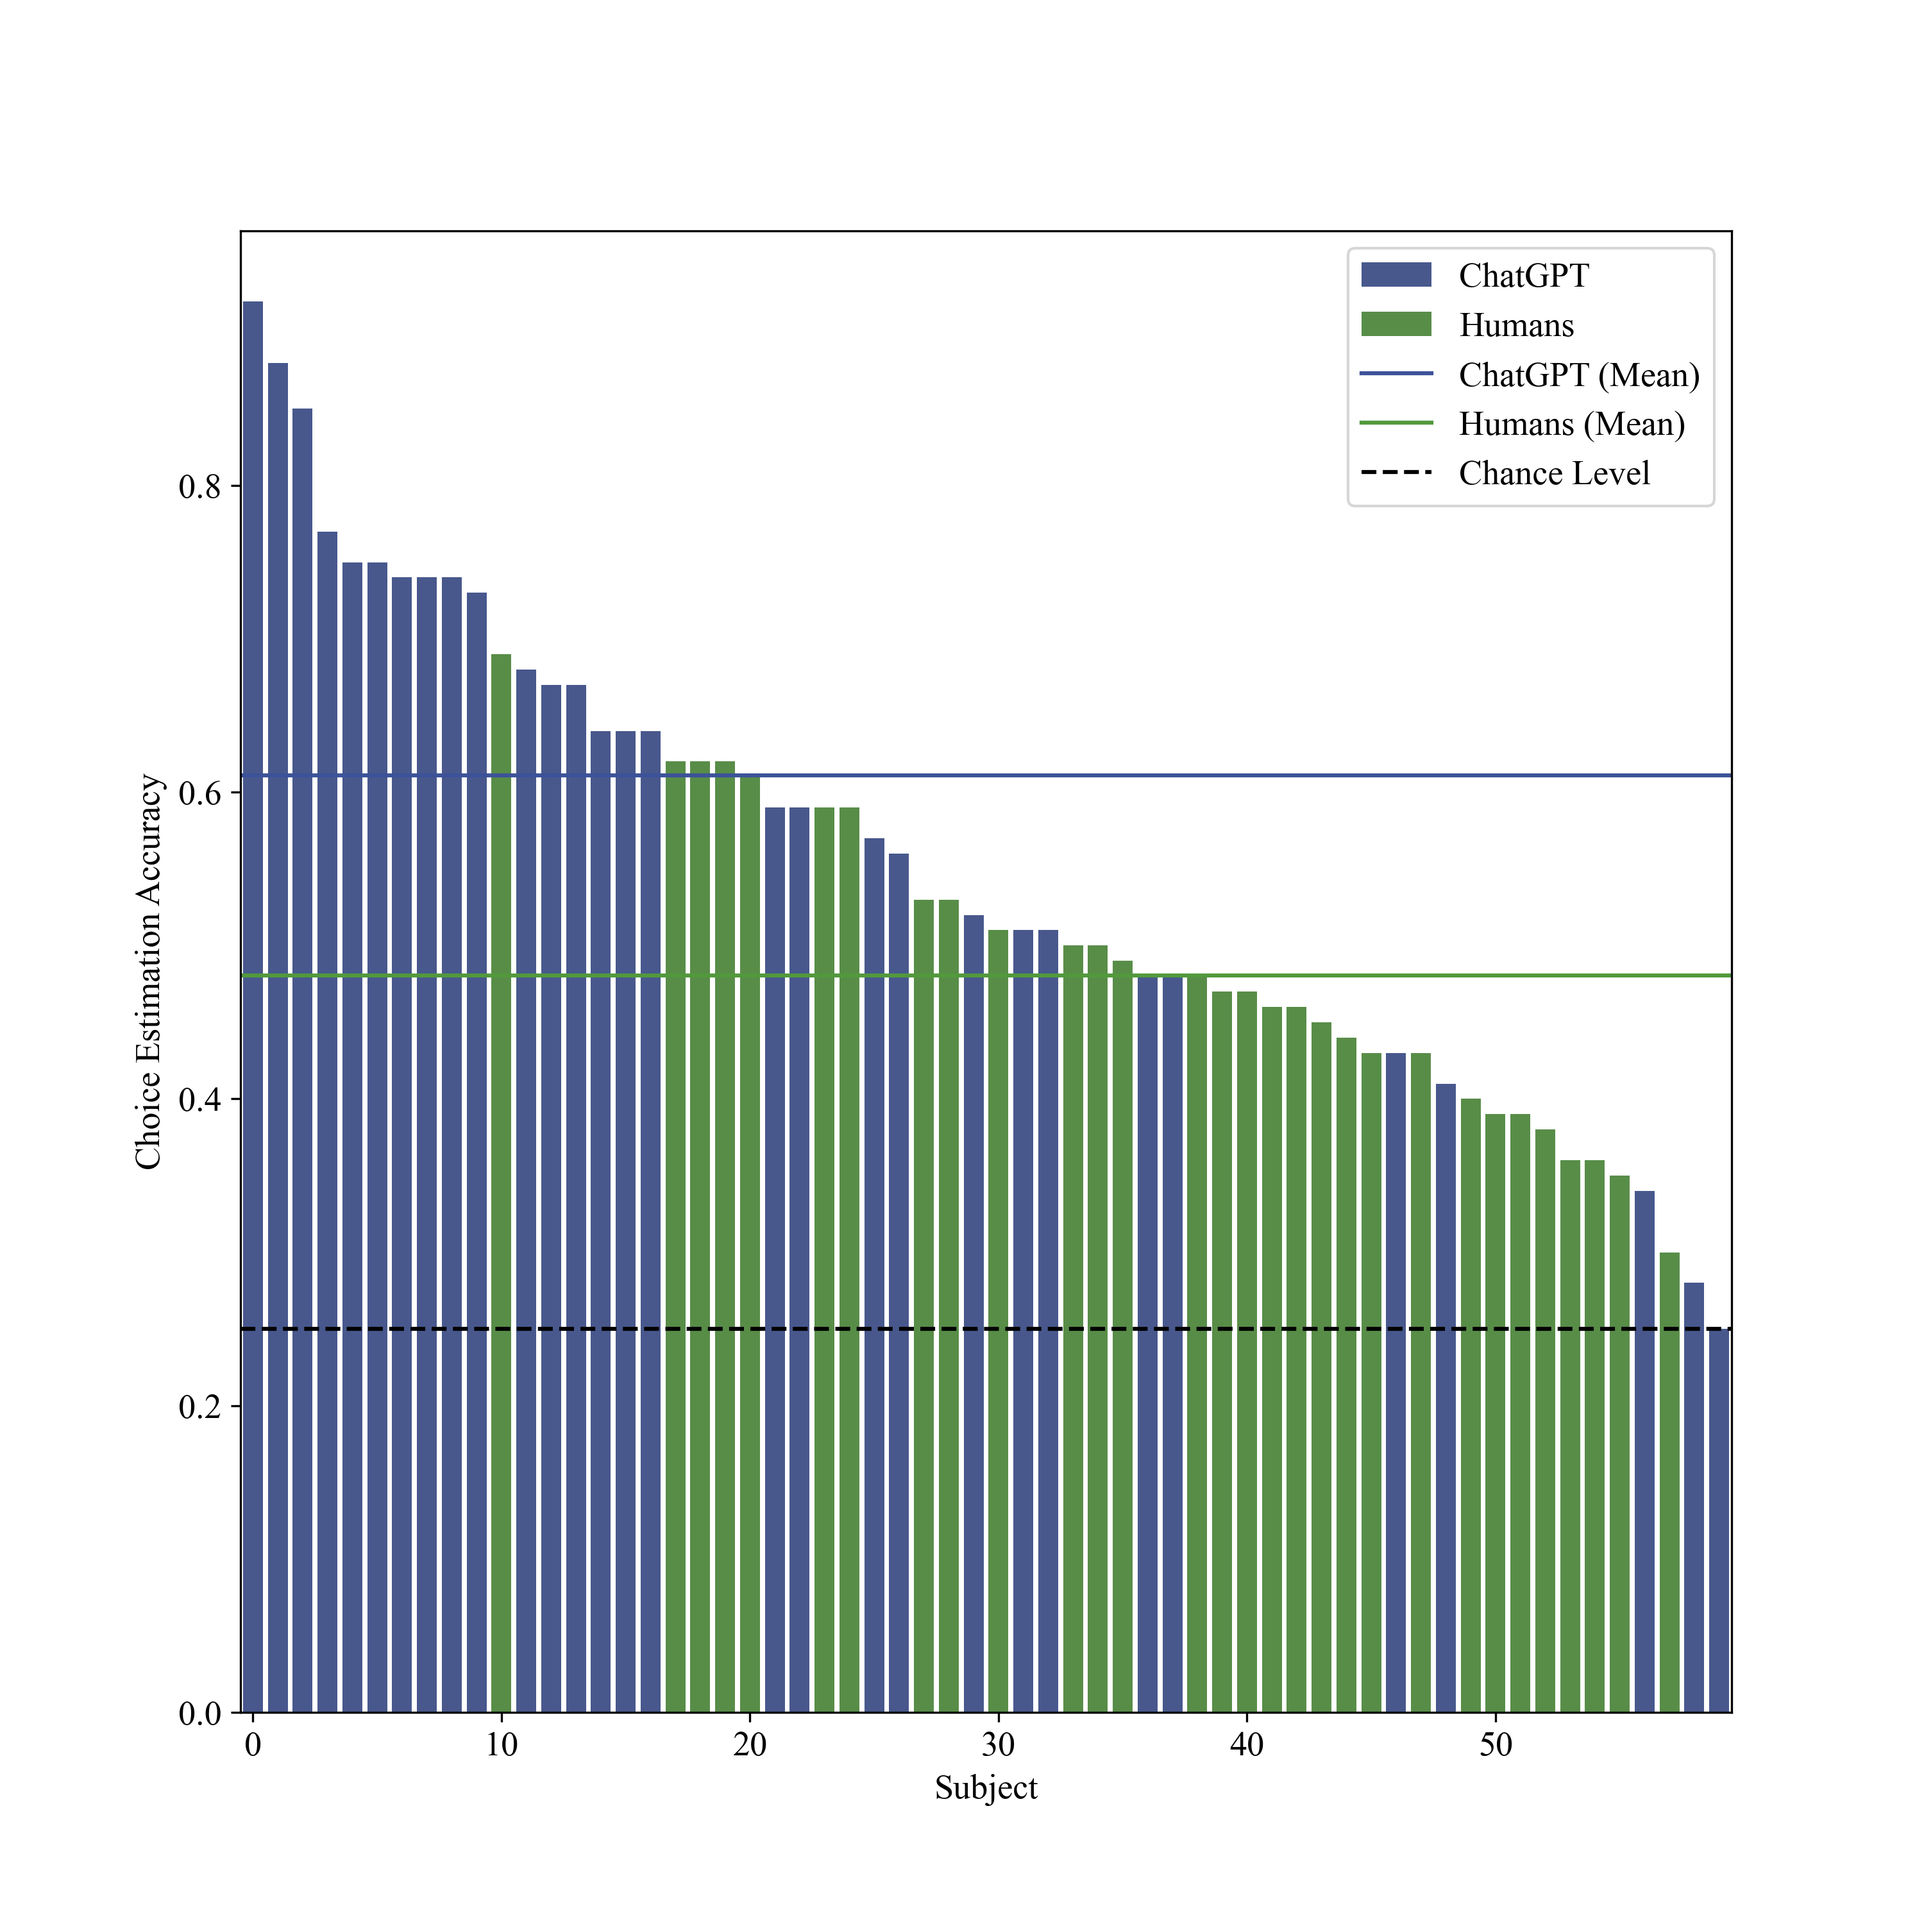
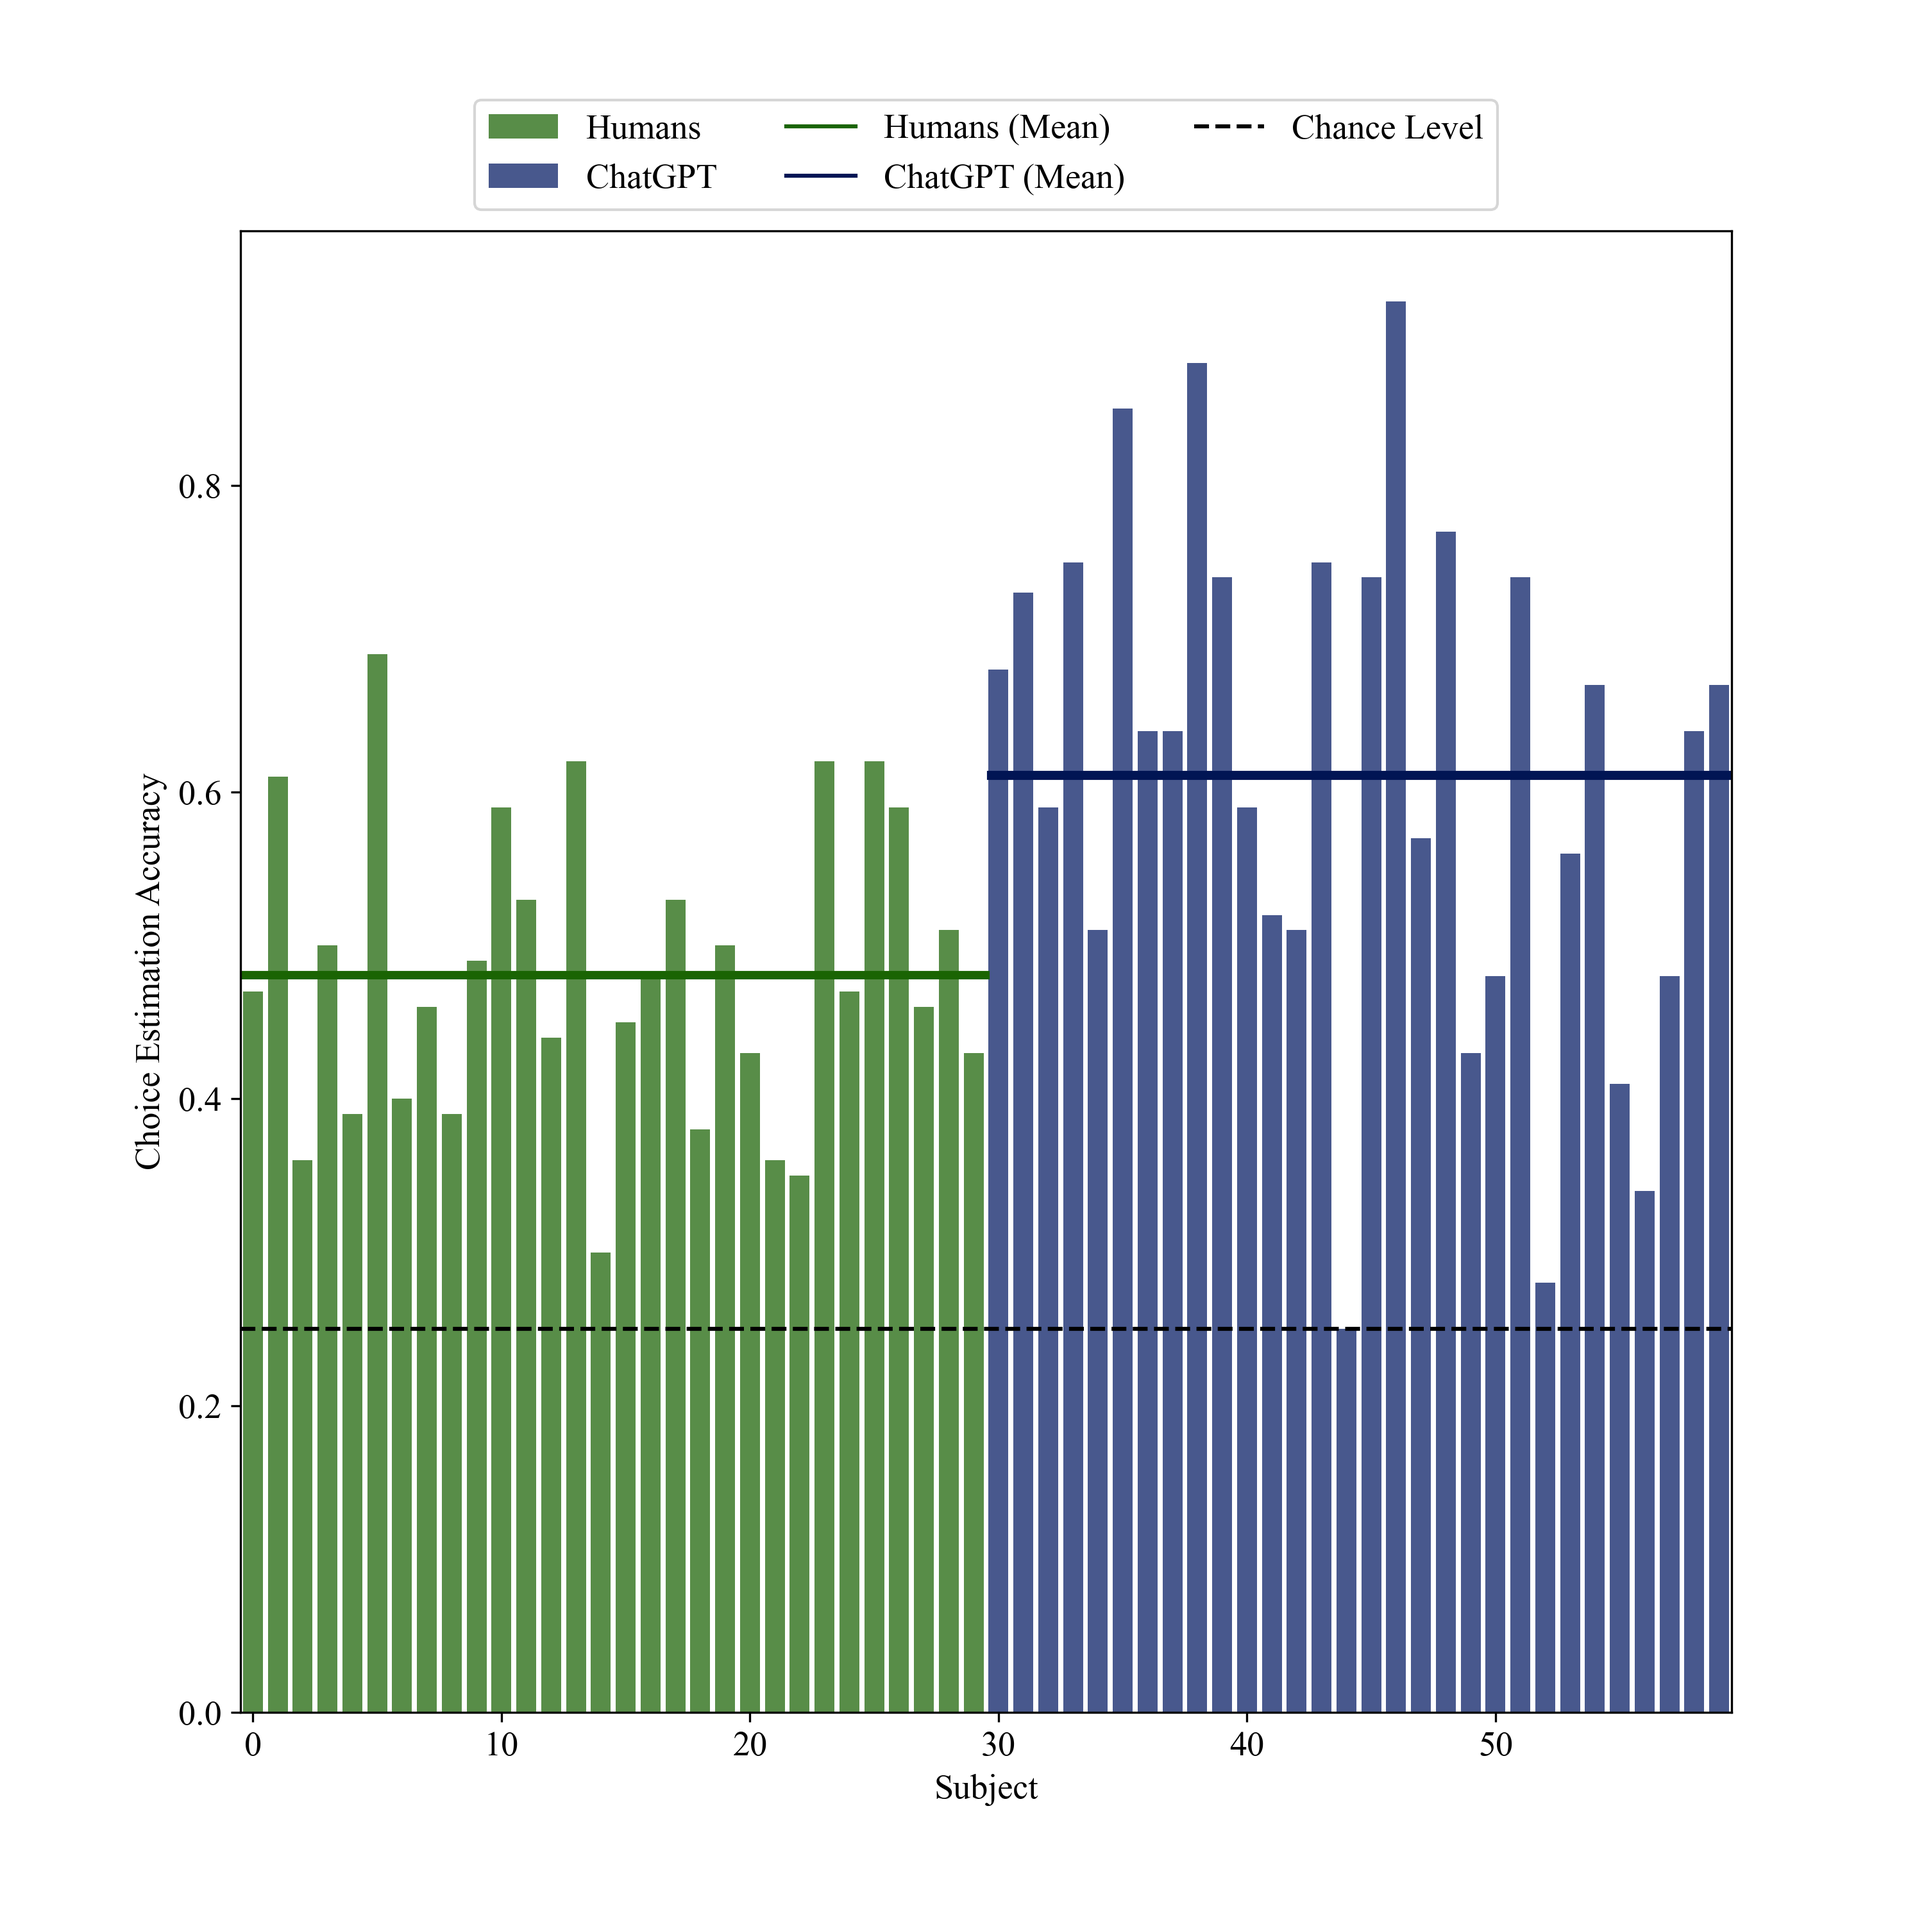
new version of descriptive adaquacy

diff --git a/src/estimation/plot_estimates.py b/src/estimation/plot_estimates.py
@@ -69,9 +69,6 @@ def plot_posteriors(hc_data, gpt_data, colors=["#398A20", "#20398A"],
     if len(parameters) < total_subplots:
         axs[-1, -1].axis('off')
 
-    if save_path is not None:
-        plt.savefig(save_path, dpi=300)
-
 
 def plot_hc_posteriors(main_hc_sample, other_hc_samples, 
                        parameters=[("mu_a_rew", "$\mu A_{rew}$"), ("mu_a_pun", "$\mu A_{pun}$"), 
@@ -153,19 +150,22 @@ def plot_multiple_descriptive_adequacies(hc_data, gpt_data, colors = ["#52993C",
     # Set subplot
     fig, ax = plt.subplots(figsize=(10, 10))
 
-    # sort bar chart by accuracy descending
-    df = df.sort_values(by=['pred_success'], ascending=False).reset_index(drop=True)
-
     # Create bar plot with each subject (row) on the x-axis and the accuracy on the y-axis and colored by group
-    sns.barplot(x=df.index, y=df['pred_success'], hue=df['group'], ax=ax, palette=[colors[1], colors[0]])
+    sns.barplot(x=df.index, y=df['pred_success'], hue=df['group'], ax=ax, palette=[colors[0], colors[1]])
 
     # Calculate mean accuracies
     hc_mean = df[df['group'] == 'Humans']['pred_success'].mean()
     gpt_mean = df[df['group'] == 'ChatGPT']['pred_success'].mean()
 
-    # Add mean accuracy lines for each group
-    ax.axhline(y=hc_mean, linestyle='-', color=colors[0])
-    ax.axhline(y=gpt_mean, linestyle='-', color=colors[1])
+    # Calculate the mid-point between the two groups on the x-axis
+    mid_point = len(hc_data) - 0.5
+
+    # set a darker version of the colors for the mean spans
+    colors_dark = ["#1a6403", "#011554"]
+
+    # Add mean accuracy spans for each group
+    ax.axhspan(hc_mean-0.002, hc_mean+0.002, xmin=0, xmax=mid_point/(len(df.index) - 1.2), color=colors_dark[0], alpha=1)
+    ax.axhspan(gpt_mean-0.002, gpt_mean+0.002, xmin=mid_point/(len(df.index) - 1.2), xmax=1, color=colors_dark[1], alpha=1)
 
     # Add a dotted line for chance level at 25%
     ax.axhline(y=0.25, linestyle='--', color='black')
@@ -181,15 +181,17 @@ def plot_multiple_descriptive_adequacies(hc_data, gpt_data, colors = ["#52993C",
 
     # Create custom legend
     handles, labels = ax.get_legend_handles_labels()
-    handles.extend([plt.Line2D([], [], color=colors[1], linestyle='-'),
-                    plt.Line2D([], [], color=colors[0], linestyle='-'),
+    handles.extend([plt.Line2D([], [], color=colors_dark[0], linestyle='-'),
+                    plt.Line2D([], [], color=colors_dark[1], linestyle='-'),
                     plt.Line2D([], [], color='black', linestyle='--')])
-    labels.extend(['ChatGPT (Mean)', 'Humans (Mean)', 'Chance Level'])
-    ax.legend(handles, labels, loc='upper right')
+    labels.extend(['Humans (Mean)', 'ChatGPT (Mean)', 'Chance Level'])
+    ax.legend(handles, labels, loc='upper center', ncol=3, bbox_to_anchor=(0.5, 1.1), fancybox=True)
 
     # Save the plot if a save path is provided
     if save_path is not None:
         plt.savefig(save_path, dpi=300)
+    
+    plt.show()
 
 
 
